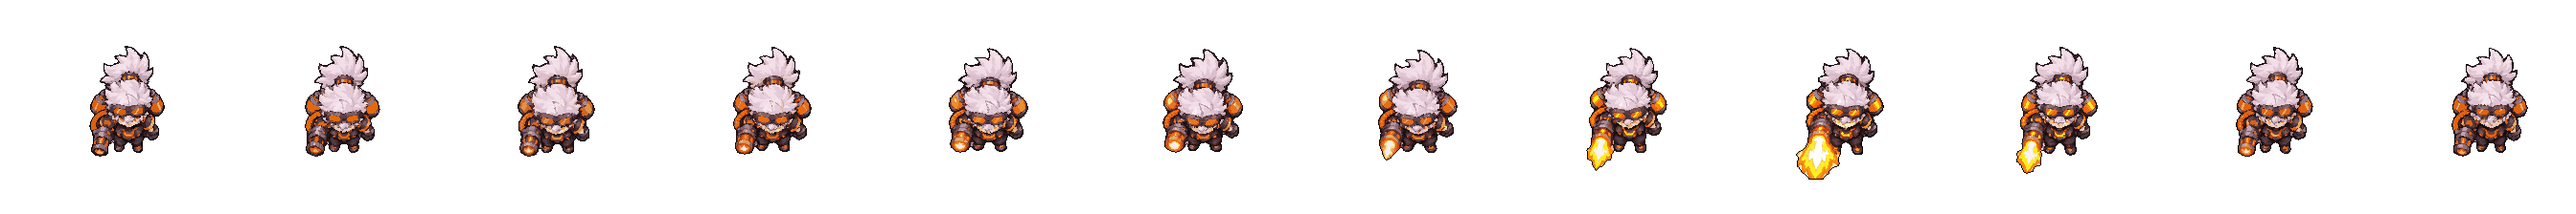
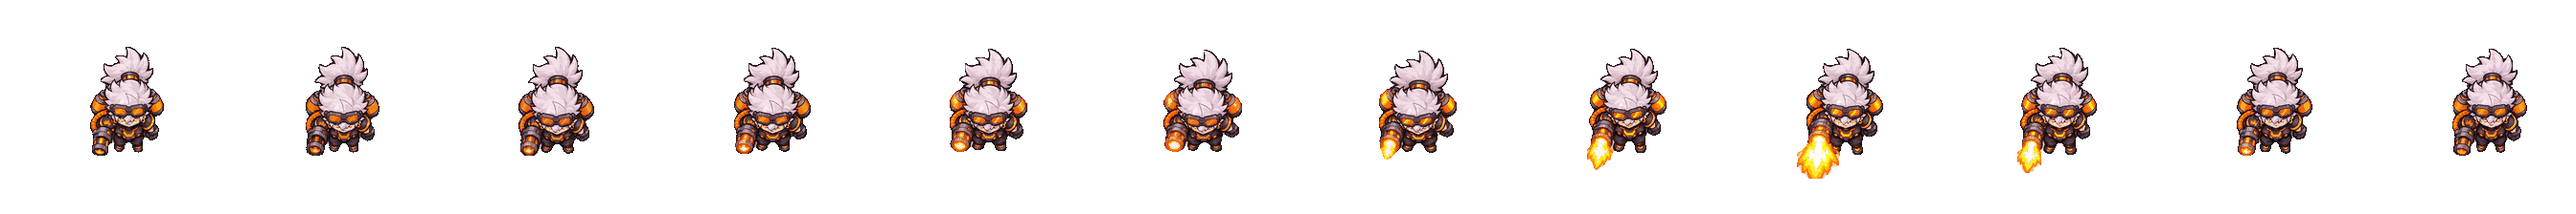
Cắt pixel: SACH=vien — giữ nguyên nét/màu bên trong, chỉ gọt quầng nền ở viền + bỏ điểm lẻ ngoài viền
Claude-Session: https://claude.ai/code/session_016VkJ26f22ubevy4EnREsEV

diff --git a/tools/demo-cat-luoi-khung-pixel.py b/tools/demo-cat-luoi-khung-pixel.py
@@ -51,6 +51,7 @@ for j in range(1,n):
     shifts.append((best[1],best[2]))
 sc=116/H0
 SACH=os.environ.get('SACH')=='1'
+VIEN=os.environ.get('SACH')=='vien'   # chỉ dọn viền: giữ nguyên cách thu nhỏ/màu bên trong
 def khuNhieu(q,al):
     # 1) bỏ điểm lẻ: ô đặc có <=1 hàng xóm đặc   2) điểm màu lạc: khác mọi hàng xóm -> lấy màu hàng xóm phổ biến nhất
     H,W=al.shape; q=q.copy(); al=al.copy()
@@ -71,12 +72,20 @@ for j in range(n):
     dx,dy=shifts[j]; bj=body(masks[j]); ay=(b0+dy) if os.environ.get("NEO")=="dy" else np.nonzero(bj.any(1))[0][-1]; ax=cx0+dx
     yy,xx=np.nonzero(masks[j]); X0,X1,Y0,Y1=xx.min(),xx.max()+1,yy.min(),yy.max()+1
     c=Image.fromarray(L[j].astype(np.uint8),'RGBA').crop((X0,Y0,X1,Y1))
+    if VIEN:
+        ca=np.array(c); ca[:,:,3]=np.where(ndimage.binary_erosion(ca[:,:,3]>110,iterations=2),ca[:,:,3],0); c=Image.fromarray(ca,'RGBA')
     if SACH:   # gọt viền 2px nguồn (bỏ quầng nền trắng) trước khi thu nhỏ
         ca=np.array(c); ca[:,:,3]=np.where(ndimage.binary_erosion(ca[:,:,3]>110,iterations=1),ca[:,:,3],0); c=Image.fromarray(ca,'RGBA')
     c2=c.resize((max(1,round(c.width*sc)),max(1,round(c.height*sc))),Image.BOX if SACH else Image.LANCZOS)
     a2=np.array(c2); al=a2[:,:,3]>(140 if SACH else 110)
     q=Image.fromarray(a2[:,:,:3]).quantize(colors=(28 if SACH else 40),method=Image.Quantize.MEDIANCUT,dither=Image.Dither.NONE).convert('RGB')
     q=np.array(q)
+    if VIEN:
+        for _ in range(2):
+            nb=sum(np.roll(np.roll(al,a,0),b,1) for a in(-1,0,1) for b in(-1,0,1) if (a,b)!=(0,0)); al=al&(nb>=3)
+        lb,kb=ndimage.label(al); sz=ndimage.sum(al,lb,range(1,kb+1))
+        for i,z in enumerate(sz):
+            if z<6: al[lb==i+1]=False
     if SACH:
         q,al=khuNhieu(q,al)
         vien=al&~ndimage.binary_erosion(al)   # viền ngoài 1px tô màu tối nhất -> nét viền kín như pixel art
